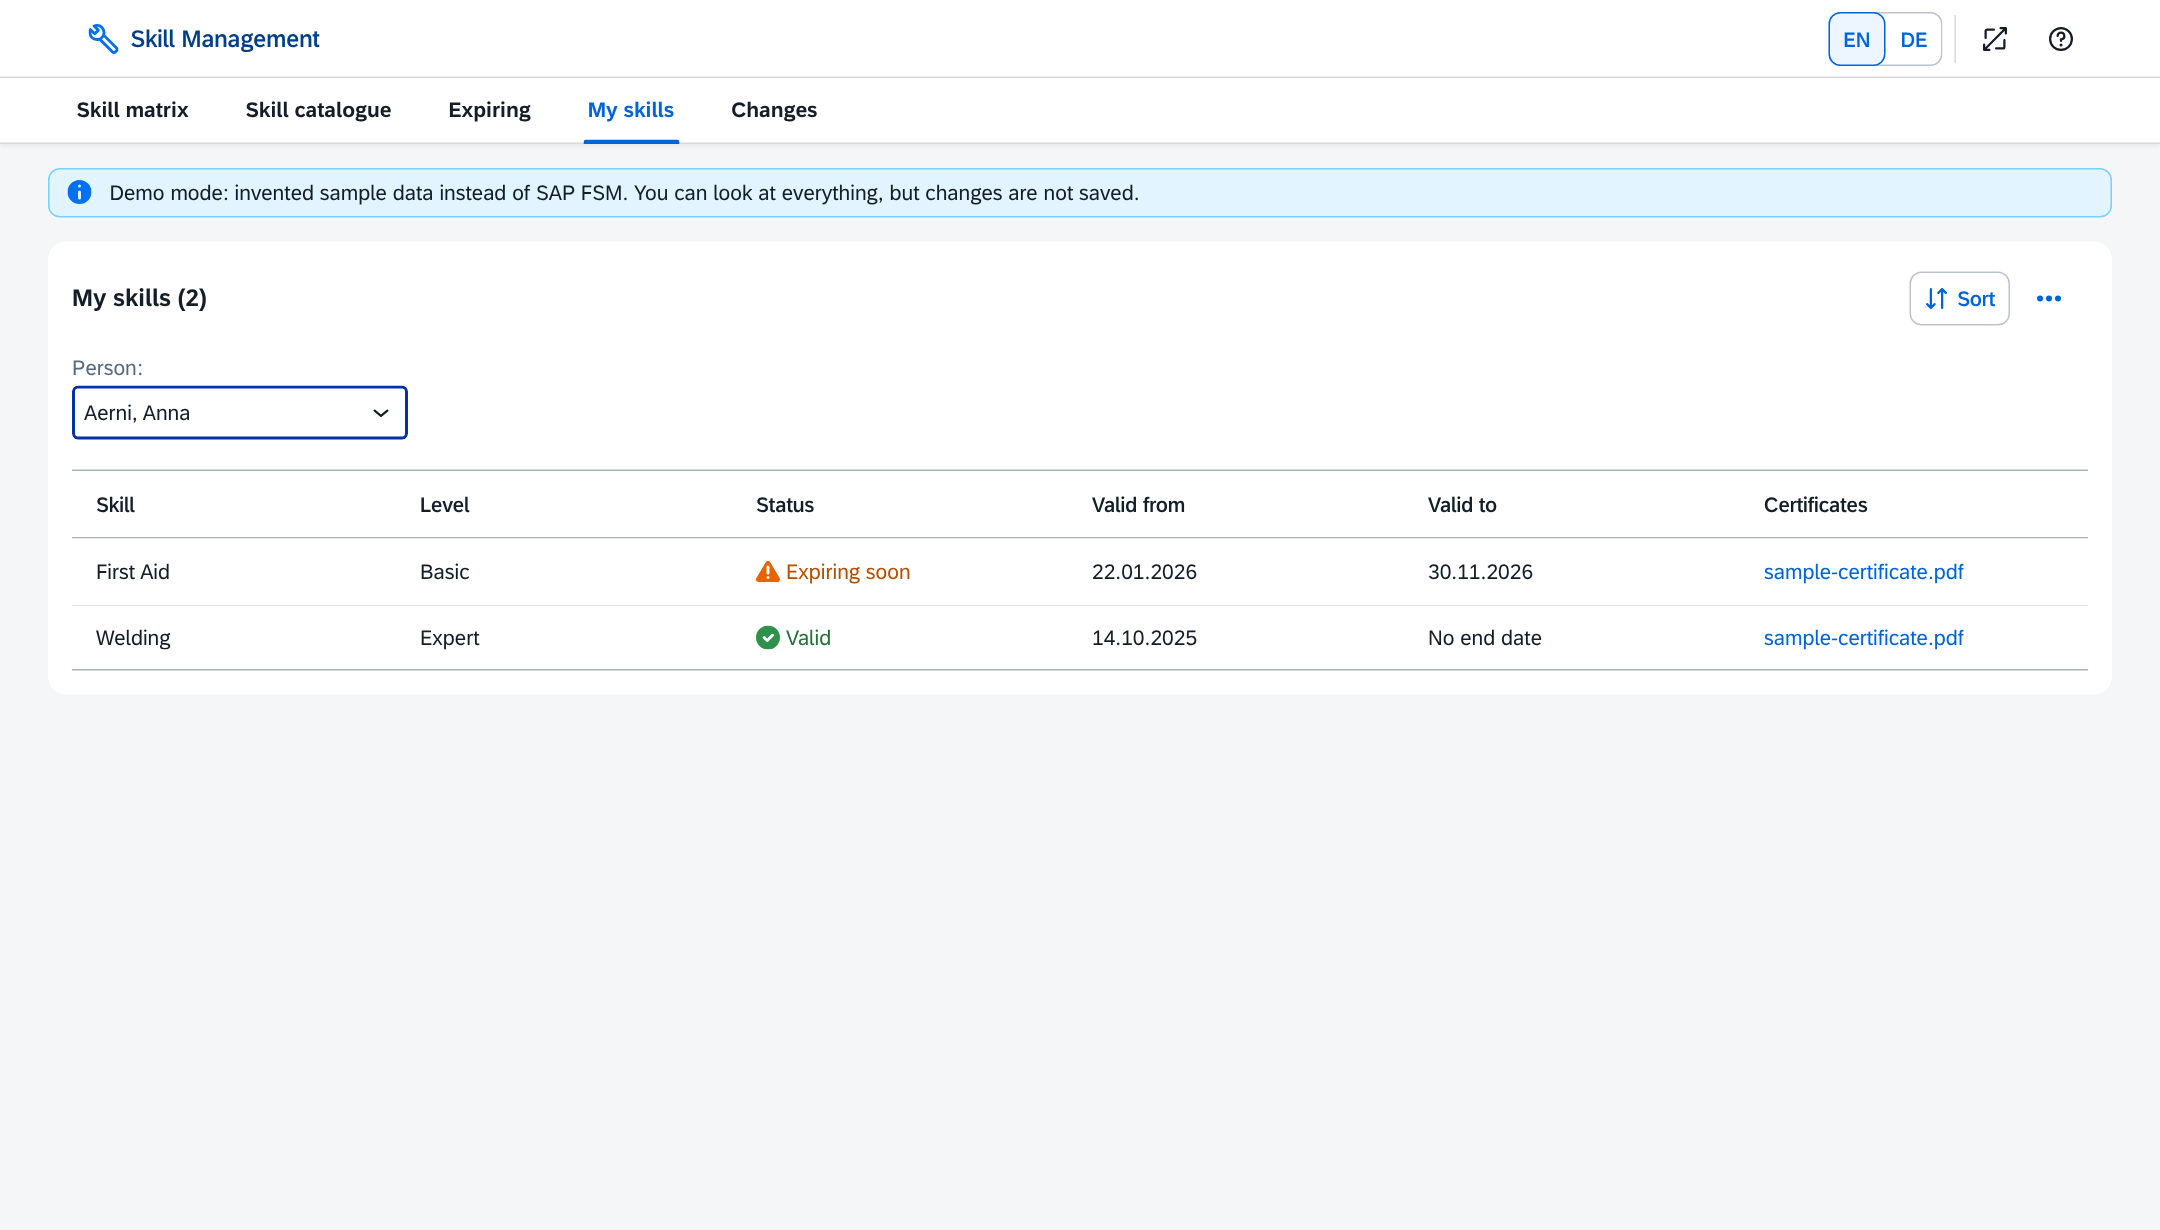
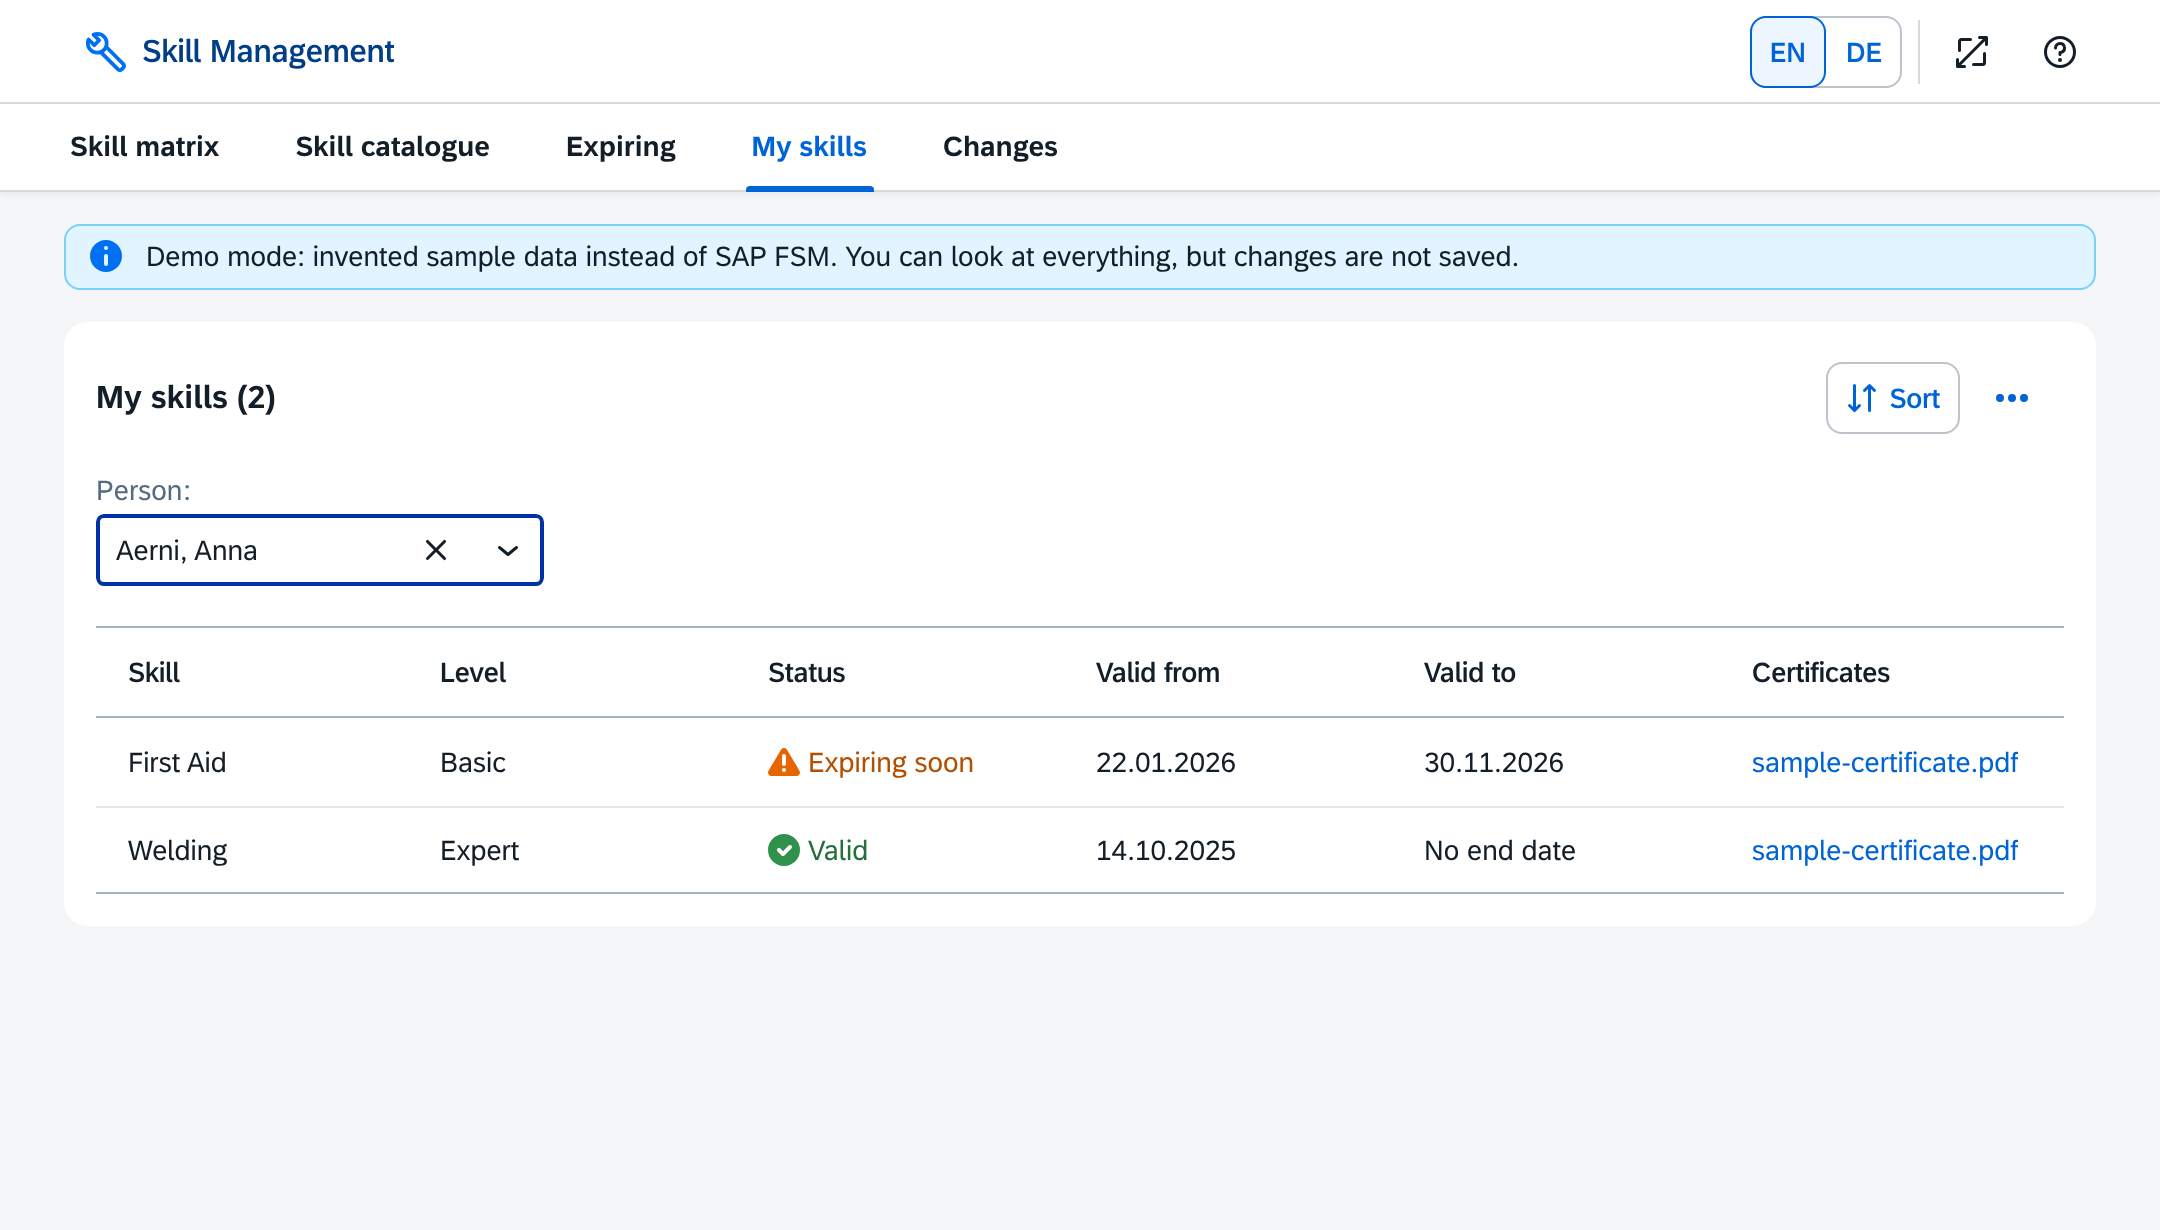
README: show the AI helpers in the tour (#24)

diff --git a/README.md b/README.md
@@ -4,19 +4,27 @@ Hi, I'm Paula, and this is my solution to the [assessment](ASSIGNMENT.md).
 
 The app answers one question for a service manager: who has which skill, backed by which certificate, valid until when. Everything is read from and written to SAP FSM through the proxy you provided. There is no other database.
 
+It also has four small AI helpers. You can ask the matrix a question, and it reads the dates from a certificate for you. I did not just trust them: I measured them, 29 cases, five runs each. More in [The AI part](#the-ai-part).
+
 A hosted copy runs on Vercel. The link and the access code are in my email.
 
 I hope you like it.
 
 ## A quick tour
 
-The screenshots show the demo mode, which runs on invented data.
+The screenshots show the demo mode, which runs on invented data. The AI is switched off there, so the two AI pictures show the answers the model gave to the same inputs in the evaluation.
 
 ### The matrix
 
 One page for everyone and everything. Green is fine, orange needs a look, red is too late. The clip says there is a certificate behind it.
 
 ![The skill matrix: persons as rows, skills as columns, each cell with status, level and end date](docs/images/matrix.png)
+
+### Ask it a question
+
+Type what you want to know. The AI turns the question into filters, and the app tells you how it understood you. It never sees your persons.
+
+![A question typed into the Ask field, and the matrix filtered to the one person who has both skills](docs/images/ask.png)
 
 ### One dialog for an assignment
 
@@ -29,6 +37,12 @@ Click a cell. Level, dates and certificates are in one place, and nothing is sav
 PDFs and images open right in the app. No download, no searching through folders.
 
 ![A certificate shown inside the app](docs/images/certificate.png)
+
+### Let it read the certificate
+
+Upload a certificate and press "Read dates". The AI proposes the dates, the code checks them, and you decide. Here it also noticed that the paper belongs to someone else.
+
+![The assignment dialog with the dates read from a certificate and a note that it is issued to another person](docs/images/read-dates.png)
 
 ### Everything about one person
 
@@ -56,7 +70,7 @@ The page I would open every Monday. Soonest first, for the next 30 to 180 days, 
 
 ### My skills
 
-For the technicians themselves. Pick your name once and see what you hold. Read-only.
+For the technicians themselves. Type your name once and see what you hold. Read-only.
 
 ![The read-only view of one technician](docs/images/my-skills.png)
 
